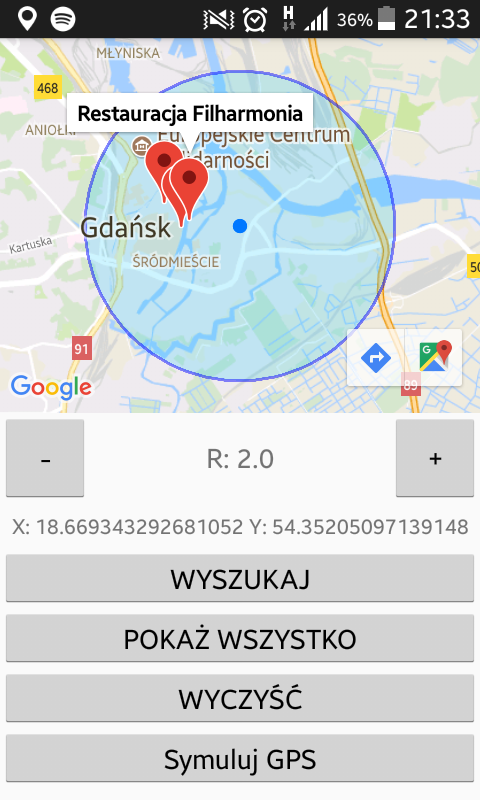
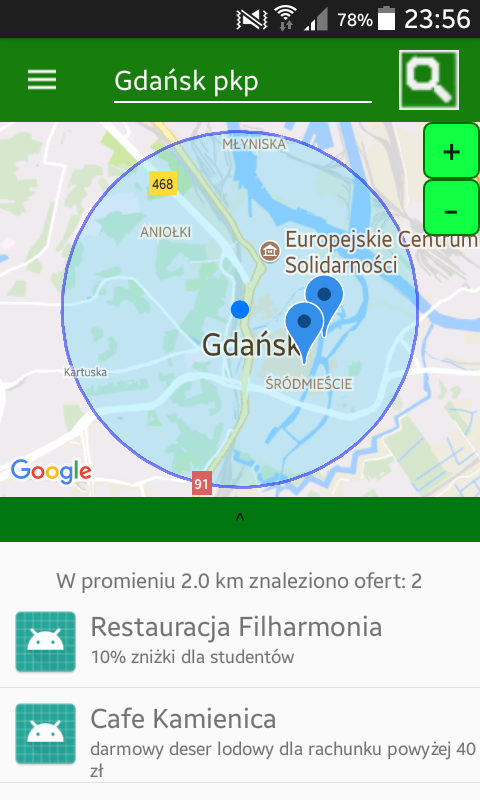
Nowy screen z aplikacji, poprawa buga z długością i szerokością geo

diff --git a/FindMyFood/wwwroot/js/site.min.js b/FindMyFood/wwwroot/js/site.min.js
@@ -1,1 +1,1 @@
-function ChangeRegistrationRole(){var n=document.getElementById("RoleSelect"),t=n.options[n.selectedIndex].value;switch(t){case"1":$("#RightPanelRestaurant").hide(300,function(){$("#RightPanelClient").show(300)});break;case"0":$("#RightPanelClient").hide(300,function(){$("#RightPanelRestaurant").show(300)})}}function clearPreviousMarker(){try{prevMarker.setMap(null)}catch(n){}}function initialize(){var n=new google.maps.LatLng(52.05,19.45),t={zoom:5,center:n,mapTypeId:google.maps.MapTypeId.HYBRID,streetViewControl:!1,mapTypeControl:!1,maxZoom:17};map=new google.maps.Map(document.getElementById("map"),t);geocoder=new google.maps.Geocoder}function GeocodeForm(){map==null&&initialize();var n=document.getElementById("InputAddressId").value;setTimeout(function(){var t=document.getElementById("InputAddressId").value;t.length<4||t!==n||geocoder.geocode({address:t},function(n,t){if(map.set("zoom",15),clearPreviousMarker(),t===google.maps.GeocoderStatus.OK){var i=n[0].geometry.location;map.setCenter(i);prevMarker=new google.maps.Marker({map:map,position:i});getcontentString(i)}})},3e3)}function getcontentString(n){geocoder.geocode({latLng:n},function(t){var i;i=t&&t.length>0?t[0].formatted_address:"Nie można ustalić dokładnego adresu";infowindow=new google.maps.InfoWindow({content:i});document.getElementById("RealAddress").value=i;document.getElementById("Longitude").value=n.lat();document.getElementById("Latitude").value=n.lng();infowindow.open(map,prevMarker);prevMarker.addListener("click",function(){infowindow.open(map,prevMarker)})})}var geocoder,map,prevMarker,lastAddress,infowindow;
+function ChangeRegistrationRole(){var n=document.getElementById("RoleSelect"),t=n.options[n.selectedIndex].value;switch(t){case"1":$("#RightPanelRestaurant").hide(300,function(){$("#RightPanelClient").show(300)});break;case"0":$("#RightPanelClient").hide(300,function(){$("#RightPanelRestaurant").show(300)})}}function clearPreviousMarker(){try{prevMarker.setMap(null)}catch(n){}}function initialize(){var n=new google.maps.LatLng(52.05,19.45),t={zoom:5,center:n,mapTypeId:google.maps.MapTypeId.HYBRID,streetViewControl:!1,mapTypeControl:!1,maxZoom:17};map=new google.maps.Map(document.getElementById("map"),t);geocoder=new google.maps.Geocoder}function GeocodeForm(){map==null&&initialize();var n=document.getElementById("InputAddressId").value;setTimeout(function(){var t=document.getElementById("InputAddressId").value;t.length<4||t!==n||geocoder.geocode({address:t},function(n,t){if(map.set("zoom",15),clearPreviousMarker(),t===google.maps.GeocoderStatus.OK){var i=n[0].geometry.location;map.setCenter(i);prevMarker=new google.maps.Marker({map:map,position:i});getcontentString(i)}})},3e3)}function getcontentString(n){geocoder.geocode({latLng:n},function(t){var i;i=t&&t.length>0?t[0].formatted_address:"Nie można ustalić dokładnego adresu";infowindow=new google.maps.InfoWindow({content:i});document.getElementById("RealAddress").value=i;document.getElementById("Latitude").value=n.lat();document.getElementById("Longitude").value=n.lng();infowindow.open(map,prevMarker);prevMarker.addListener("click",function(){infowindow.open(map,prevMarker)})})}var geocoder,map,prevMarker,lastAddress,infowindow;

diff --git a/FindMyFood/wwwroot/js/site.js b/FindMyFood/wwwroot/js/site.js
@@ -89,8 +89,8 @@ function getcontentString(pos) {
                 content: myContent
             });
             document.getElementById("RealAddress").value = myContent;
-            document.getElementById("Longitude").value = pos.lat();
-            document.getElementById("Latitude").value = pos.lng();
+            document.getElementById("Latitude").value = pos.lat();
+            document.getElementById("Longitude").value = pos.lng();
             infowindow.open(map, prevMarker);
             prevMarker.addListener("click",
                 function() {

diff --git a/FindMyFood/Controllers/APIController.cs b/FindMyFood/Controllers/APIController.cs
@@ -73,8 +73,8 @@ namespace FindMyFood.Controllers
             IQueryable<PromotionAPI> promotion = from promo in _context.Promotions
                 join r in _context.Restaurant on promo.RestaurantId equals r.Id into joined
                 from r in joined
-                where IsInRadius(double.Parse(r.Longitude.Replace(".", ",")),
-                    double.Parse(r.Latitude.Replace(".", ",")), lng, lat, radius)
+                where IsInRadius(double.Parse(r.Longitude),
+                    double.Parse(r.Latitude), lng, lat, radius)
                 select new PromotionAPI(promo, r);
 
             return promotion;

diff --git a/FindMyFood/Controllers/AccountController.cs b/FindMyFood/Controllers/AccountController.cs
@@ -218,7 +218,7 @@ namespace Find_My_Food.Controllers
                 try {
                     result = await _userManager.CreateAsync(user, model.Password);
                 }
-                catch (Exception ex) {
+                catch (Exception) {
                     return View(model);
                 }
                 context.SaveChanges();
